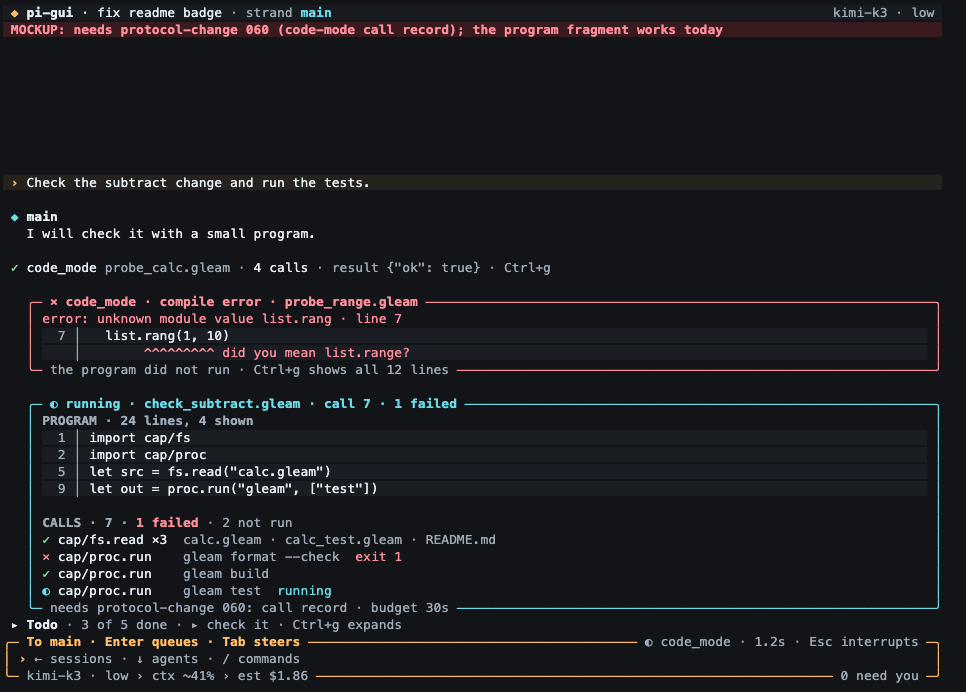
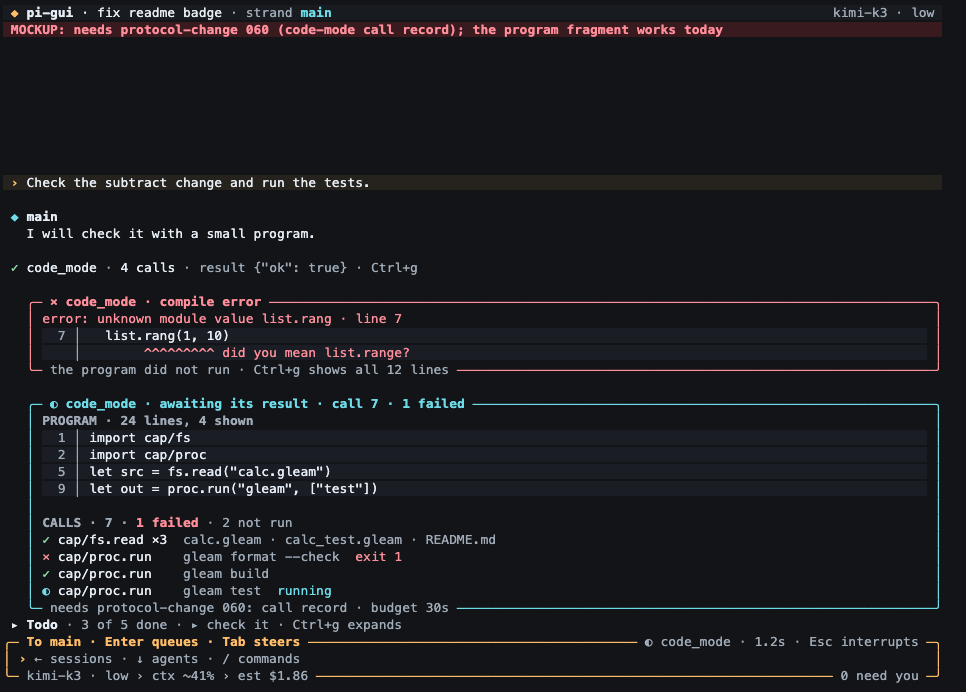
docs: drop the invented program names from code mode
In this commit, we take the file names and the word vetted out of the code-mode frames and say why: a program has no name, vetting is known only once a result says so, and a running program's elapsed time is on the input frame's top rule rather than on its block. The four code-mode grids and their pictures are regenerated.

diff --git a/docs/design-notes/terminal-design/terminal-design-gen.py b/docs/design-notes/terminal-design/terminal-design-gen.py
@@ -437,14 +437,14 @@ def codemode_body(calls):
         R += assistant(W, ["I will check it with a small program."])
         R.append(blank(W))
         if calls:
-            R.append(G(W, [("✓ ", "add b"), ("code_mode", "p"), (" probe_calc.gleam · ", "q"), ("4 calls", "p"), (" · result {\"ok\": true} · Ctrl+g", "q")]))
+            R.append(G(W, [("✓ ", "add b"), ("code_mode", "p"), (" · ", "q"), ("4 calls", "p"), (" · result {\"ok\": true} · Ctrl+g", "q")]))
         else:
-            R.append(G(W, [("✓ ", "add b"), ("code_mode", "p"), (" probe_calc.gleam · completed · result {\"ok\": true} · Ctrl+g", "q")]))
+            R.append(G(W, [("✓ ", "add b"), ("code_mode", "p"), (" · completed · result {\"ok\": true} · Ctrl+g", "q")]))
         R.append(blank(W))
         err = [row(iw, [("error: unknown module value list.rang · line 7", "dan")], ""),
                row(iw, [("  7 │ ", "q"), ("  list.rang(1, 10)", "p")], "cb"),
                row(iw, [("    │ ", "q"), ("       ^^^^^^^^^ did you mean list.range?", "dan")], "cb")]
-        R += titled(W, "× code_mode · compile error · probe_range.gleam", "dan b", "dan", err,
+        R += titled(W, "× code_mode · compile error", "dan b", "dan", err,
                     "the program did not run · Ctrl+g shows all 12 lines", indent=3)
         R.append(blank(W))
         inner = prog_rows(iw - 2 if False else iw - 2)
@@ -456,12 +456,12 @@ def codemode_body(calls):
                                            ("✓", "add", "cap/proc.run", "gleam build", ""),
                                            ("◐", "cur", "cap/proc.run", "gleam test", "running")]:
                 inner.append(row(iw, [(g + " ", gc), (name.ljust(16), "p"), (arg, "q"), ("  " + note if note else "", "dan" if note == "exit 1" else "cur")]))
-            title = "◐ running · check_subtract.gleam · call 7 · 1 failed"
+            title = "◐ code_mode · awaiting its result · call 7 · 1 failed"
             foot = "needs protocol-change 060: call record · budget 30s"
         else:
             inner.append(row(iw, [("RESULT · none yet · the result arrives when the program ends", "q")]))
-            title = "◐ running · check_subtract.gleam · 1.2s"
-            foot = "budget 30s · vetted · Ctrl+g program"
+            title = "◐ code_mode · awaiting its result"
+            foot = "budget 30s · Ctrl+g program"
         R += titled(W, title, "cur b", "cur", inner, foot, indent=3)
         return R
     return f

diff --git a/docs/design-notes/terminal-design/B-opus.md b/docs/design-notes/terminal-design/B-opus.md
@@ -34,7 +34,7 @@ index is in section 14.
 [light](B-opus-before-picker-120x40-light.png) ·
 [80×24 png](B-opus-before-picker-80x24-dark.png)
 
-The before frames were rendered from `render` at `tui/session_selector.gleam:716` with six fixture sessions, because `--demo` has no daemon and
+The before frames were rendered from `render` at `tui/session_selector.gleam:734` with six fixture sessions, because `--demo` has no daemon and
 answers `←` with "daemon control is unavailable". What is wrong with it:
 
 - **Alignment.** A row is the name, then ` · ` and the short identity, so the
@@ -95,12 +95,12 @@ answers `←` with "daemon control is unavailable". What is wrong with it:
 ### Data
 
 Everything drawn is already in the control protocol. A row is
-`Session` at `tui/daemon/protocol.gleam:396`: identity, workspace, name,
+`Session` at `tui/daemon/protocol.gleam:416`: identity, workspace, name,
 `created_at` and lifecycle. The state words and counts come from
-`Activity` at `tui/daemon/protocol.gleam:300`: state, strands, working,
+`Activity` at `tui/daemon/protocol.gleam:320`: state, strands, working,
 approvals, last outcome, last message and model, with up to four
-`GlanceLine` at `tui/daemon/protocol.gleam:353` rows. The filter counts are
-`counts` at `tui/session_selector.gleam:684`. "Created" uses `created_at`. A
+`GlanceLine` at `tui/daemon/protocol.gleam:340` rows. The filter counts are
+`counts` at `tui/session_selector.gleam:701`. "Created" uses `created_at`. A
 "last active" column would need a new control field, which is a
 protocol-change; this concept does not ask for one (question 6).
 
@@ -195,11 +195,11 @@ fewer columns.
 ### Data
 
 - Name, status, task, activity, update, pending input, approvals, model and
-  recent tools: `Row` at `session_view/agent_view.gleam:65`.
+  recent tools: `Row` at `session_view/agent_view.gleam:79`.
 - Elapsed time and tokens: `Line` at `session_view/agent_roster.gleam:84`,
   which the strip already draws.
-- The status words: `status_line` at `session_view/strand_card.gleam:38`; the
-  Needs you count: `needing` at `session_view/strand_card.gleam:69`.
+- The status words: `status_line` at `session_view/strand_card.gleam:45`; the
+  Needs you count: `needing` at `session_view/strand_card.gleam:205`.
 - Messages: `for_strand` at `session_view/agent_messages.gleam:167`, the
   verified sends the captures have seen. The heading says "seen in captures"
   because a message sent by a strand whose branch the client has not
@@ -216,10 +216,10 @@ No protocol change is needed for the view as drawn.
 |---|---|---|
 | Header row: brand, session, model, `Ctrl+g details` | removed; session name on the input frame's top rule | one row back at every size |
 | `transcript / main` label | a breadcrumb row only when a strand other than `main` is focused | the frame already names the target |
-| Footer of one to three rows (`footer_rows`, `tui/layout.gleam:312`) | the input frame's bottom rule: model › workspace › branch › ctx › cost, needs-you count on the right | up to three rows back; omp and Codex show this is enough |
+| Footer of one to three rows (`footer_rows`, `tui/layout.gleam:327`) | the input frame's bottom rule: model › workspace › branch › ctx › cost, needs-you count on the right | up to three rows back; omp and Codex show this is enough |
 | Status band under the composer rule | an activity line above the input frame | the spinner sits next to the thing it describes |
 | Agent strip under the footer | kept, under the input frame, with the same keys | the owner's recordings show it is the part that works |
-| 34-cell rail toggled by `Shift+Tab` (`body_layout` at `tui/layout.gleam:94`) and the 72-cell changes pane | one drawer with tabs; `Shift+Tab` docks and hides it | one side region instead of two that take turns |
+| 34-cell rail toggled by `Shift+Tab` (`body_layout` at `tui/layout.gleam:115`) and the 72-cell changes pane | one drawer with tabs; `Shift+Tab` docks and hides it | one side region instead of two that take turns |
 | `/agents` workspace as a box | full body, or the drawer's Strands tab when docked | section 2 |
 | Transcript rows | a three-cell strand gutter; repeated calls collapsed with a count; harness notices in the system voice | sections 6 and 9 |
 | Todo panel up to a third of the body | one line below 40 rows; today's panel at 40 rows and taller | the panel cost six rows at 80×24 |
@@ -293,7 +293,7 @@ and the roster returns under the input.
 The transcript has a three-cell gutter: a space, a mark, a space. The mark is
 `●` in the hue of the strand the row belongs to, `∴` for reasoning, `┆` for a
 peer, `◇` for a harness notice, `×` for an error, and `→` or `←` for a strand
-message. The hue comes from `hue` at `session_view/turns.gleam:211`. Under the
+message. The hue comes from `hue` at `session_view/turns.gleam:248`. Under the
 plain palette the marks still differ by glyph, and a crossing row names its
 strand in words, so nothing depends on colour.
 
@@ -351,9 +351,9 @@ call list in both needs a new wire record (section 10).
 | Key | Today | Concept B |
 |---|---|---|
 | `←` on an empty composer | session picker (`tui/interaction.gleam:1376`) | unchanged |
-| `↓` on an empty composer | into the strip (`down_from_composer` at `tui/interaction.gleam:1236`) | unchanged; lands on `main` when another strand is focused |
-| `Shift+Tab` | toggle the rail (`tui/interaction.gleam:1339`) | toggle the drawer, which replaces the rail |
-| `Ctrl+O`, `F2` | open `/agents` (`open_agents` at `tui/interaction.gleam:1125`) | open Strands: full body, or focus the docked drawer |
+| `↓` on an empty composer | into the strip (`down_from_composer` at `tui/interaction.gleam:1260`) | unchanged; lands on `main` when another strand is focused |
+| `Shift+Tab` | toggle the rail (`tui/interaction.gleam:1362`) | toggle the drawer, which replaces the rail |
+| `Ctrl+O`, `F2` | open `/agents` (`open_agents` at `tui/interaction.gleam:1149`) | open Strands: full body, or focus the docked drawer |
 | `Ctrl+T` | unbound | timeline cursor (new) |
 | `Ctrl+G` | details everywhere | unchanged |
 | `Ctrl+D` | changes navigator focus | focus the drawer on Changes |
@@ -396,22 +396,22 @@ record would need a new control command.
 
 | Region | Data | Source today |
 |---|---|---|
-| Gutter hues | strand hue | `hue` at `session_view/turns.gleam:211` |
-| Worked divider with failure count | the turn's steps | `divider` at `session_view/turns.gleam:1159`, plus a failure count from the steps' results |
+| Gutter hues | strand hue | `hue` at `session_view/turns.gleam:248` |
+| Worked divider with failure count | the turn's steps | `divider` at `session_view/turns.gleam:1099`, plus a failure count from the steps' results |
 | Collapsed repeats (`agent_wait ×15`) | consecutive identical calls | a new rule in `project` at `session_view/tool_activity.gleam:55`; no wire change |
 | Collapsed repeated errors (`429 ×20`) | consecutive identical local lines | a fold in `session_view` over `Shared.transcript`; no wire change |
 | Harness notices as system lines | the `[loom] ` prefix | recognised today only to bound the turn, `harness_injection_summary` at `session_view/composer.gleam:425`; the line builder still draws a User turn |
 | Spawn tree, roster, Strands tab | status, words, time, tokens | `Line` at `session_view/agent_roster.gleam:84`, `chips` at `session_view/agent_roster.gleam:393` |
 | Activity line | the active operation | `tui/layout` labels today (`active_status_label`) |
 | Status rule: ctx | context estimate | `footer` at `session_view/context_view.gleam:358` |
-| Status rule: cost | session total | `usage` at `session_view/model.gleam:335` |
-| Status rule: needs you | approvals per strand | `needing` at `session_view/strand_card.gleam:69` |
+| Status rule: cost | session total | `usage` at `session_view/model.gleam:353` |
+| Status rule: needs you | approvals per strand | `needing` at `session_view/strand_card.gleam:205` |
 | Strands tab: cache | outlook per strand | `outlook` at `session_view/cache_watch.gleam:120` |
-| Changes tab | session edits | `fold` at `session_view/changes_view.gleam:173` |
+| Changes tab | session edits | `fold` at `session_view/changes_view.gleam:210` |
 | Session tab: jobs, viewers | jobs board, presence | `jobs` at `session_view/session_summary.gleam:99`, `viewers` at `session_view/session_summary.gleam:122` |
-| Code mode block, Trace tab | program, status, result | `code_mode_program` at `session_view/transcript_lines.gleam:2354`, `code_mode_result_lines` at `session_view/transcript_lines.gleam:2844`; the call list has no data and needs a new wire record |
-| Peer messages | authenticated origin | `PeerOrigin` at `core/message.gleam:43`, `peer_message_lines` at `session_view/transcript_lines.gleam:1641` |
-| Strand messages | harness text frame | `frame_message` at `client/agency.gleam:1641`; not recognised by `session_view` today |
+| Code mode block, Trace tab | program, status, result | `code_mode_program` at `session_view/transcript_lines.gleam:2380`, `code_mode_result_lines` at `session_view/transcript_lines.gleam:2870`; the call list has no data and needs a new wire record |
+| Peer messages | authenticated origin | `PeerOrigin` at `core/message.gleam:43`, `peer_message_lines` at `session_view/transcript_lines.gleam:1671` |
+| Strand messages | harness text frame | `frame_message` at `client/agency.gleam:1665`; not recognised by `session_view` today |
 | Images | mime type and bytes | `Image` at `session_view/transcript_image.gleam:29` |
 
 Every row above is either drawn today or a change inside `session_view` or
@@ -451,10 +451,10 @@ receives.
   "needs protocol-change: call record".
 
 What the client receives: the program, from the call's `program` argument
-only (`code_mode_program` at `session_view/transcript_lines.gleam:2354`),
+only (`code_mode_program` at `session_view/transcript_lines.gleam:2380`),
 and the result's details, which carry the value or the error message and
 details, `status`, `manifest_hash` and `sandbox`
-(`code_mode_result_lines` at `session_view/transcript_lines.gleam:2844`
+(`code_mode_result_lines` at `session_view/transcript_lines.gleam:2870`
 draws them). There is no call data at all: no call list, no capability
 names, no per-call status. Capability calls are serviced inside the
 satellite and the broker, and no transcript entry is written per call. A
@@ -495,7 +495,7 @@ that heading.
 **Local strand messages are weaker.** A message from another strand in the
 same session arrives as a user turn with no origin. Its sender is written by
 the harness into a text frame, `[message from <strand>]` … `[end message. …]`
-(`frame_message` at `client/agency.gleam:1641`). Today `session_view` does not
+(`frame_message` at `client/agency.gleam:1665`). Today `session_view` does not
 recognise the frame, so these messages are drawn as `› User` turns, which is
 one of the pain points in the owner's recordings. Concept B recognises the
 frame by both its header and its footer, as advisor frames are recognised,

diff --git a/docs/design-notes/terminal-design.md b/docs/design-notes/terminal-design.md
@@ -67,7 +67,7 @@ the grids are exact. Running the generator also writes a viewer page,
 
 Reached with `←` from an empty composer (`packages/tui/src/tui/interaction.gleam:1376`).
 A draft or a pending attachment keeps `←` as a cursor key, as today. The view
-is `session_selector.render` (`packages/tui/src/tui/session_selector.gleam:716`)
+is `session_selector.render` (`packages/tui/src/tui/session_selector.gleam:734`)
 (`render`), and this note redraws it without changing its keys.
 
 ![Picker, 120x40](terminal-design/terminal-design-picker-120-dark.png)
@@ -96,11 +96,11 @@ What changes from today (A's list; the "before" captures are in
 - Two hint rows, in two tiers: movement and opening first, rarer keys second.
 
 Data: everything is on the page the picker already holds, so there is no wire
-change. A row is a `Session` (`packages/tui/src/tui/daemon/protocol.gleam:396`)
+change. A row is a `Session` (`packages/tui/src/tui/daemon/protocol.gleam:416`)
 (`Session`). The state, strand counts, approvals, last message and up to four
-glance lines come from `Activity` (`packages/tui/src/tui/daemon/protocol.gleam:300`)
-(`Activity`) and `GlanceLine` (`packages/tui/src/tui/daemon/protocol.gleam:353`)
-(`GlanceLine`). The tabs are `Filter` (`packages/tui/src/tui/session_selector.gleam:55`)
+glance lines come from `Activity` (`packages/tui/src/tui/daemon/protocol.gleam:320`)
+(`Activity`) and `GlanceLine` (`packages/tui/src/tui/daemon/protocol.gleam:340`)
+(`GlanceLine`). The tabs are `Filter` (`packages/tui/src/tui/session_selector.gleam:75`)
 (`Filter`). Age is the creation age, because the page has no last-activity
 time; a "last active" field would be a change to `sessions.activity`.
 
@@ -140,7 +140,7 @@ What changes from today:
   inert, so `x` has nothing to stop).
 - A long task is cut at a word, with a line saying where the rest is.
 
-Data: `Row` (`packages/session_view/src/session_view/agent_view.gleam:65`)
+Data: `Row` (`packages/session_view/src/session_view/agent_view.gleam:79`)
 (`Row`) has the task, activity, update, pending receipt, approvals, model and
 recent tools. Elapsed time and context are fields of `Line`
 (`packages/session_view/src/session_view/agent_roster.gleam:84`) (`Line`),
@@ -195,11 +195,11 @@ and `Esc` closes it. Grid: [txt](terminal-design/terminal-design-layout-80.txt) 
 [light](terminal-design/terminal-design-layout-80-light.png). The sheet looks
 like [A's narrow sheet](terminal-design/A-sonnet-narrow-strands-dark.png).
 
-Today's code: `layout.layout` (`packages/tui/src/tui/layout.gleam:76`)
+Today's code: `layout.layout` (`packages/tui/src/tui/layout.gleam:97`)
 (`layout`) stacks header, body, composer and footer. `body_layout`
 (`packages/tui/src/tui/layout.gleam:94`) (`body_layout`) gives the body one
 side pane, the 34-cell agent rail or the 72-cell changes pane. The footer is
-built in `footer_rows` (`packages/tui/src/tui/layout.gleam:312`)
+built in `footer_rows` (`packages/tui/src/tui/layout.gleam:327`)
 (`footer_rows`). The new layout replaces the header and footer with the
 identity line and the input frame, and replaces the two side panes with one
 rail.
@@ -235,7 +235,7 @@ tight; the same facts fit on the frame.
 
 Data: context is `context_view.footer`
 (`packages/session_view/src/session_view/context_view.gleam:358`) (`footer`),
-cost is the session's `usage` (`packages/session_view/src/session_view/model.gleam:335`)
+cost is the session's `usage` (`packages/session_view/src/session_view/model.gleam:353`)
 (`usage`), the needs-you count is `strand_card.needing`
 (`packages/session_view/src/session_view/strand_card.gleam:69`) (`needing`),
 and the activity label is `layout.active_status_label`
@@ -319,7 +319,10 @@ nothing per capability call, so there are two frames.
 in the danger colour with the error and the line it names. A running program is
 a titled block with a numbered fragment of the program, the first lines, and a
 `RESULT · none yet` row that fills when the program ends. The foot gives the
-budget. At 80 columns the fragment shrinks. The program text is
+budget. The block names no file and claims no vetting, since a program has no
+name and vetting is known only once a result says so; the program's elapsed
+time is on the input frame's top rule (`◐ code_mode · 1.2s`), which the
+activity already drives, rather than on the block, whose rows are cached. At 80 columns the fragment shrinks. The program text is
 `transcript_lines.code_mode_program`
 (`packages/session_view/src/session_view/transcript_lines.gleam:2371`)
 (`code_mode_program`) and the result is drawn by `code_mode_result_lines`
@@ -335,6 +338,12 @@ and B's calls grouped by capability with a count (`cap/fs.read ×3`), a failed
 call with its exit status, and a running call. The settled row gains a call
 count. The fragment above the calls is the same as today's. The call list needs
 a record on the wire, which is what 060 adds.
+
+060 writes the record on a program's result and nowhere else, so until a live
+feed of calls lands the list appears on settled and stopped programs only: a
+block still awaiting its result has none, which the frames above, drawn as the
+target, do not show. `not run` is not a status the record carries either; it
+has `ok`, `failed`, `cancelled` and `unsettled`, and the summary counts those.
 
 ![Code mode with calls, 120x40](terminal-design/terminal-design-codemode-calls-120-dark.png)
 
@@ -425,7 +434,7 @@ Grid: [txt](terminal-design/terminal-design-fixes-120.txt) ·
 |---|---|
 | About fifteen identical `✓ agent_wait · 2 subagents` rows | One counted row, `×15`, updated in place. A new rule in `tool_activity.project` (`packages/session_view/src/session_view/tool_activity.gleam:55`) (`project`). No wire change. |
 | Twenty identical `http 429` errors | One counted row: `! provider returned http 429 ×20`. A fold over the local lines in `session_view`. |
-| A `[loom] background job ... was lost` notice drawn as a `› User` turn | A dim `◇ loom` line with a second line saying it is a notice from Loom, not a message from you. **Data check first:** the line builders already route some harness-authored user messages (`harness_message_lines`, `packages/session_view/src/session_view/transcript_lines.gleam:1621`) (`harness_message_lines`), and `composer.harness_injection_summary` (`packages/session_view/src/session_view/composer.gleam:425`) (`harness_injection_summary`) recognises the `[loom] ` prefix to bound a turn. If the daemon sends this notice as a user entry with no marker, recognising the prefix is the same text-to-attribution step that 059 exists to avoid, and the notice needs a marker through its own protocol-change. |
+| A `[loom] background job ... was lost` notice drawn as a `› User` turn | A dim `◇ loom` line with a second line saying it is a notice from Loom, not a message from you. **Data check first:** the line builders already route some harness-authored user messages (`harness_message_lines`, `packages/session_view/src/session_view/transcript_lines.gleam:1651`) (`harness_message_lines`), and `composer.harness_injection_summary` (`packages/session_view/src/session_view/composer.gleam:425`) (`harness_injection_summary`) recognises the `[loom] ` prefix to bound a turn. If the daemon sends this notice as a user entry with no marker, recognising the prefix is the same text-to-attribution step that 059 exists to avoid, and the notice needs a marker through its own protocol-change. |
 | Approvals as a small dialog | A full-width block with numbered choices (below). |
 
 The fixes frame draws more on the folded rows than a fold has: `· 7m 30s ·
@@ -479,7 +488,7 @@ main ▸ sub:tests`) and the identity line names it. Focus from the timeline wit
 |---|---|---|
 | `←`, empty composer, no attachment | Open the session picker | Unchanged (`packages/tui/src/tui/interaction.gleam:1376`) (`open_session_selector`) |
 | `↓`, idle composer | Enter the agent strip. While the rail shows Strands, focus the rail's list | Unchanged (`packages/tui/src/tui/interaction.gleam:1236`) (`down_from_composer`) |
-| `Shift+Tab` | Dock or hide the rail; a sheet below 120 columns | Replaces "toggle the rail" (`packages/tui/src/tui/interaction.gleam:1339`) (`toggle_agent_rail`) |
+| `Shift+Tab` | Dock or hide the rail; a sheet below 120 columns | Replaces "toggle the rail" (`packages/tui/src/tui/interaction.gleam:1362`) (`toggle_agent_rail`) |
 | Escape | Interrupt; closes the surface on top first | Unchanged (`packages/tui/src/tui/interaction.gleam:1337`) (`interrupt_active`) |
 | `Ctrl+O`, `F2`, `/agents` | Open the agent workspace | Unchanged |
 | `/diff`, `/trace`, `/summary` | Open the rail on Changes, Trace, Session | `/diff` exists; the others are new |
@@ -504,15 +513,15 @@ New `F` keys wait on a check of what Herdr and common terminals pass through
 |---|---|---|
 | Picker rows and preview | `Session`, `Activity`, `GlanceLine` (section 1) | None |
 | Workspace and strip rows | `Row`, `Line` (section 2) | None |
-| Strand cards, status line | `strand_card.status_line` (`packages/session_view/src/session_view/strand_card.gleam:38`) (`status_line`) | None |
-| Gutter hue | `turns.hue` (`packages/session_view/src/session_view/turns.gleam:211`) (`hue`) | None |
-| Worked divider with a failure count | `turns.divider` (`packages/session_view/src/session_view/turns.gleam:1159`) (`divider`), plus a count from the steps' results | None |
+| Strand cards, status line | `strand_card.status_line` (`packages/session_view/src/session_view/strand_card.gleam:45`) (`status_line`) | None |
+| Gutter hue | `turns.hue` (`packages/session_view/src/session_view/turns.gleam:248`) (`hue`) | None |
+| Worked divider with a failure count | `turns.divider` (`packages/session_view/src/session_view/turns.gleam:1099`) (`divider`), plus a count from the steps' results | None |
 | Sent messages | `agent_messages.observe` | None |
 | Received strand messages | A strand origin on the admitted message | **protocol-change 059** |
 | Peer messages | `PeerOrigin` | None |
 | Code-mode program and result | `code_mode_program`, `code_mode_result_lines` | None |
 | Code-mode call list | A call record in the result | **protocol-change 060** |
-| Images | The tool result block at `packages/tools/src/tools/fs.gleam:963` (`ToolResultImage`), read through `of_entry` | None; etui work |
+| Images | The tool result block at `packages/tools/src/tools/fs.gleam:986` (`ToolResultImage`), read through `of_entry` | None; etui work |
 | Repeats, repeated errors | New folds in `session_view` | None |
 | Harness notices | See section 9 | Possibly a marker |
 | Layout memory | A file in the state root | None |

diff --git a/docs/design-notes/terminal-design/C-fable.md b/docs/design-notes/terminal-design/C-fable.md
@@ -169,9 +169,9 @@ empty state says `main is the only strand` and names `/fork`. At 80×24 the
 list is a four-row window with `+3 more` and the detail is one line per
 heading.
 
-**Data.** The row comes from `Row` (`session_view/agent_view.gleam:65`),
-whose `Status` (`session_view/agent_view.gleam:38`) carries the glyph and
-`label` (`session_view/agent_view.gleam:509`) the word, and from `Line`
+**Data.** The row comes from `Row` (`session_view/agent_view.gleam:79`),
+whose `Status` (`session_view/agent_view.gleam:52`) carries the glyph and
+`label` (`session_view/agent_view.gleam:516`) the word, and from `Line`
 (`session_view/agent_roster.gleam:84`), which adds elapsed time and context
 size; `lines` (`session_view/agent_roster.gleam:355`) is the order. The task,
 activity, latest update, pending input, recent tools and approvals are the
@@ -334,7 +334,7 @@ on the owner's correction: `←` keeps the picker.
 | Approval card in the dock | yes | Kept in the dock, as a full-width block under a rule. The panel carries no decision control. |
 | `Alex is typing` | no | Not in the protocol, as the web note says. |
 | Todo line above the composer | yes | Today's panel in its one-row form by default. |
-| Changes from the session's edits | yes, as the fallback | The terminal can read the worktree, so Changes is `/diff`'s observation first, with `fold` (`session_view/changes_view.gleam:173`) as the labelled fallback it already uses. |
+| Changes from the session's edits | yes, as the fallback | The terminal can read the worktree, so Changes is `/diff`'s observation first, with `fold` (`session_view/changes_view.gleam:210`) as the labelled fallback it already uses. |
 | Trace with timing bars | no, until #656 | The tab draws the latest program's calls untimed; section 9.1 says what the result carries today. |
 | Layout remembered per workspace | yes | A file under the state root, section 10. |
 | Theme toggle | no | The palette is decided at launch from the terminal's environment (`detect`, `tui/appearance.gleam:46`). |
@@ -463,9 +463,9 @@ The way back is `Enter` on `main`, the first row, or `/strand main`.
 |---|---|---|---|
 | sub:tests focused, 120×40 | [standard-focus](C-fable-standard-focus-dark.png) | [light](C-fable-standard-focus-light.png) | [txt](C-fable-standard-focus.txt) |
 
-The gutter's hue comes from `hue` (`session_view/turns.gleam:211`), which
+The gutter's hue comes from `hue` (`session_view/turns.gleam:248`), which
 colours a strand by its position among the captured strands and never by its
-name, with `hues` (`session_view/turns.gleam:70`) sub-agent hues before they
+name, with `hues` (`session_view/turns.gleam:85`) sub-agent hues before they
 repeat. The terminal's row projection would carry a hue beside each row the
 way it carries anchors (`refresh_render_cache`, `tui/projection.gleam:49`),
 derived from `pieces` (`session_view/turns.gleam:298`), which already decides
@@ -728,16 +728,16 @@ No single key sends a decision.
 | Region | Data | Exists | Where |
 |---|---|---|---|
 | Header | session title, workspace, model | yes | `render_header`, `tui/render.gleam:503` |
-| Timeline gutter | each row's strand and hue | derivable | `pieces` (`session_view/turns.gleam:298`), `hue` (`session_view/turns.gleam:211`); new hue constants in `tui/theme.gleam` |
+| Timeline gutter | each row's strand and hue | derivable | `pieces` (`session_view/turns.gleam:298`), `hue` (`session_view/turns.gleam:248`); new hue constants in `tui/theme.gleam` |
 | Counted repeated rows | consecutive identical calls and errors | derivable | the grouping in `project` (`session_view/tool_activity.gleam:55`) gains a run-length fold; shared with the web view |
 | Harness notes | `[loom]`-prefixed inputs, hook and job notices | partly | `harness_message_lines` (`session_view/transcript_lines.gleam:1651`) recognises advisor frames; `memory_context_lines` (`session_view/composer.gleam:356`) the memory context; the `[loom]` job and hook notices need the same recogniser extended, no wire change |
-| Strands tab, strip, workspace list | one row per strand | yes | `lines` (`session_view/agent_roster.gleam:355`), `Line` (`session_view/agent_roster.gleam:84`), `status_line` (`session_view/strand_card.gleam:38`), `status_mark` (`tui/agents.gleam:738`) |
-| Strand detail | task, now, update, pending, recent, approvals | yes | `Row` (`session_view/agent_view.gleam:65`) |
+| Strands tab, strip, workspace list | one row per strand | yes | `lines` (`session_view/agent_roster.gleam:355`), `Line` (`session_view/agent_roster.gleam:84`), `status_line` (`session_view/strand_card.gleam:45`), `status_mark` (`tui/agents.gleam:738`) |
+| Strand detail | task, now, update, pending, recent, approvals | yes | `Row` (`session_view/agent_view.gleam:79`) |
 | Strand detail: messages out | sends with state | yes | `Item` (`session_view/agent_messages.gleam:52`) |
 | Strand detail: messages in, inbox | received messages, unread count | no | section 9.2; a strand origin on the admitted message and an inbox read need a protocol change |
 | Strand detail: cache | the cache outlook words | yes | `outlook_label` (`session_view/cache_miss.gleam:435`), today in `cache_outlook` (`tui/model.gleam:449`) |
 | Nudge count on the advisor row | pending nudges | yes | `Board` (`session_view/advisor_pending.gleam:51`), `nudges` (`session_view/model.gleam:224`) |
-| Changes tab | worktree observation, navigator, patch | yes | `State` (`session_view/worktree_view.gleam:98`), `layout` (`tui/diff_panel.gleam:33`), with `fold` (`session_view/changes_view.gleam:173`) as the labelled fallback |
+| Changes tab | worktree observation, navigator, patch | yes | `State` (`session_view/worktree_view.gleam:98`), `layout` (`tui/diff_panel.gleam:33`), with `fold` (`session_view/changes_view.gleam:210`) as the labelled fallback |
 | Trace tab, code-mode box | program, result, status | yes | `code_mode_program` (`session_view/transcript_lines.gleam:2380`), `execution_value` (`tools/codemode.gleam:1482`) |
 | Trace tab, code-mode box | the capability call list | no | protocol change (section 9.1, with #656) |
 | Session tab: goal | the goal board | yes | `row` (`session_view/goal_view.gleam:553`), `goal` (`session_view/model.gleam:236`) |

diff --git a/docs/design-notes/terminal-design/A-sonnet.md b/docs/design-notes/terminal-design/A-sonnet.md
@@ -124,7 +124,7 @@ Data: all of it is on the page the picker already holds. `protocol.Session`
 creation time and lifecycle. `protocol.Activity` (`:300`) has the state
 (`ActivityState`, `:325`), strand and working counts, approvals, last
 outcome, last message, model, and up to four `GlanceLine`s (`:353`). The
-filters are `session_selector.Filter` (`session_selector.gleam:55`). Nothing
+filters are `session_selector.Filter` (`session_selector.gleam:75`). Nothing
 needs a wire change. Age is the creation age, because the page has no
 last-activity time; if the owner wants "last active" that is a protocol
 change to `sessions.activity`.
@@ -206,7 +206,7 @@ composer), and the actions (Enter opens, `n` jumps to attention, `a` reviews).
 At 80 by 24 the list (up to eight rows) sits above a compact detail, with a
 one-row footer. The detail scrolls with PgUp and PgDn, as today.
 
-Data: `agent_view.Row` (`packages/session_view/src/session_view/agent_view.gleam:65`)
+Data: `agent_view.Row` (`packages/session_view/src/session_view/agent_view.gleam:79`)
 has the task, activity, update, pending receipt, approvals, model, recent
 tools and decision preview. Elapsed time and context size are on
 `agent_roster.Line` (`agent_roster.gleam:84`, fields `elapsed_s` and
@@ -631,13 +631,13 @@ checked before the keys are fixed (open question 3).
 
 | Region | Source | In `session_view` today | New wire fields |
 |---|---|---|---|
-| Strand cards, status line, needs-input count | `agent_roster.Line` (`packages/session_view/src/session_view/agent_roster.gleam:84`), `strand_card.status_line` (`packages/session_view/src/session_view/strand_card.gleam:38`), `strand_card.needing` (69) | Yes | No |
+| Strand cards, status line, needs-input count | `agent_roster.Line` (`packages/session_view/src/session_view/agent_roster.gleam:84`), `strand_card.status_line` (`packages/session_view/src/session_view/strand_card.gleam:45`), `strand_card.needing` (69) | Yes | No |
 | Strand detail: model, context, running, recent tools | roster line, `strand_card.context_words` (83), `agent_view` | Yes | No |
 | Cache outlook | `cache_watch.outlook` (`packages/session_view/src/session_view/cache_watch.gleam:120`) | Yes | No |
-| Strand filter counts | counts over `agent_view.Status` (`packages/session_view/src/session_view/agent_view.gleam:38`) | Yes | No |
+| Strand filter counts | counts over `agent_view.Status` (`packages/session_view/src/session_view/agent_view.gleam:52`) | Yes | No |
 | Inline strand tree | the spawn, result and nudge rows the line builders emit (`transcript_lines`) | Rows yes; updating them in place needs a fold of the roster into the spawn row, which the web lane does | No |
-| Changes | `changes_view.fold` (`packages/session_view/src/session_view/changes_view.gleam:173`), `totals` (148), `label` (137); worktree observation (`worktree_view`) | Yes | No |
-| Trace | latest `code_mode` program, `transcript_lines.code_mode_program` (`packages/session_view/src/session_view/transcript_lines.gleam:2354`) | Program, state and result yes. The call list is not on the wire at all (`packages/tools/src/tools/codemode.gleam:1676`) | **Yes**: a call record, with timing in the same change (`protocol-change/NNN.md`) |
+| Changes | `changes_view.fold` (`packages/session_view/src/session_view/changes_view.gleam:210`), `totals` (148), `label` (137); worktree observation (`worktree_view`) | Yes | No |
+| Trace | latest `code_mode` program, `transcript_lines.code_mode_program` (`packages/session_view/src/session_view/transcript_lines.gleam:2380`) | Program, state and result yes. The call list is not on the wire at all (`packages/tools/src/tools/codemode.gleam:1676`) | **Yes**: a call record, with timing in the same change (`protocol-change/NNN.md`) |
 | Session tab: jobs, viewers | `session_summary.jobs` (`packages/session_view/src/session_view/session_summary.gleam:99`), `viewers` (122), `live_jobs.lines` (`packages/session_view/src/session_view/live_jobs.gleam:107`) | Yes | No |
 | Session tab: context, cost | `context_view.footer` (`packages/session_view/src/session_view/context_view.gleam:358`), `Shared.usage` through `transcript_lines.money` (3058) | Yes | No |
 | Session tab: goal, queue, schedules | `goal_view`, the cut's pending inputs, the schedule events | Yes | No |
